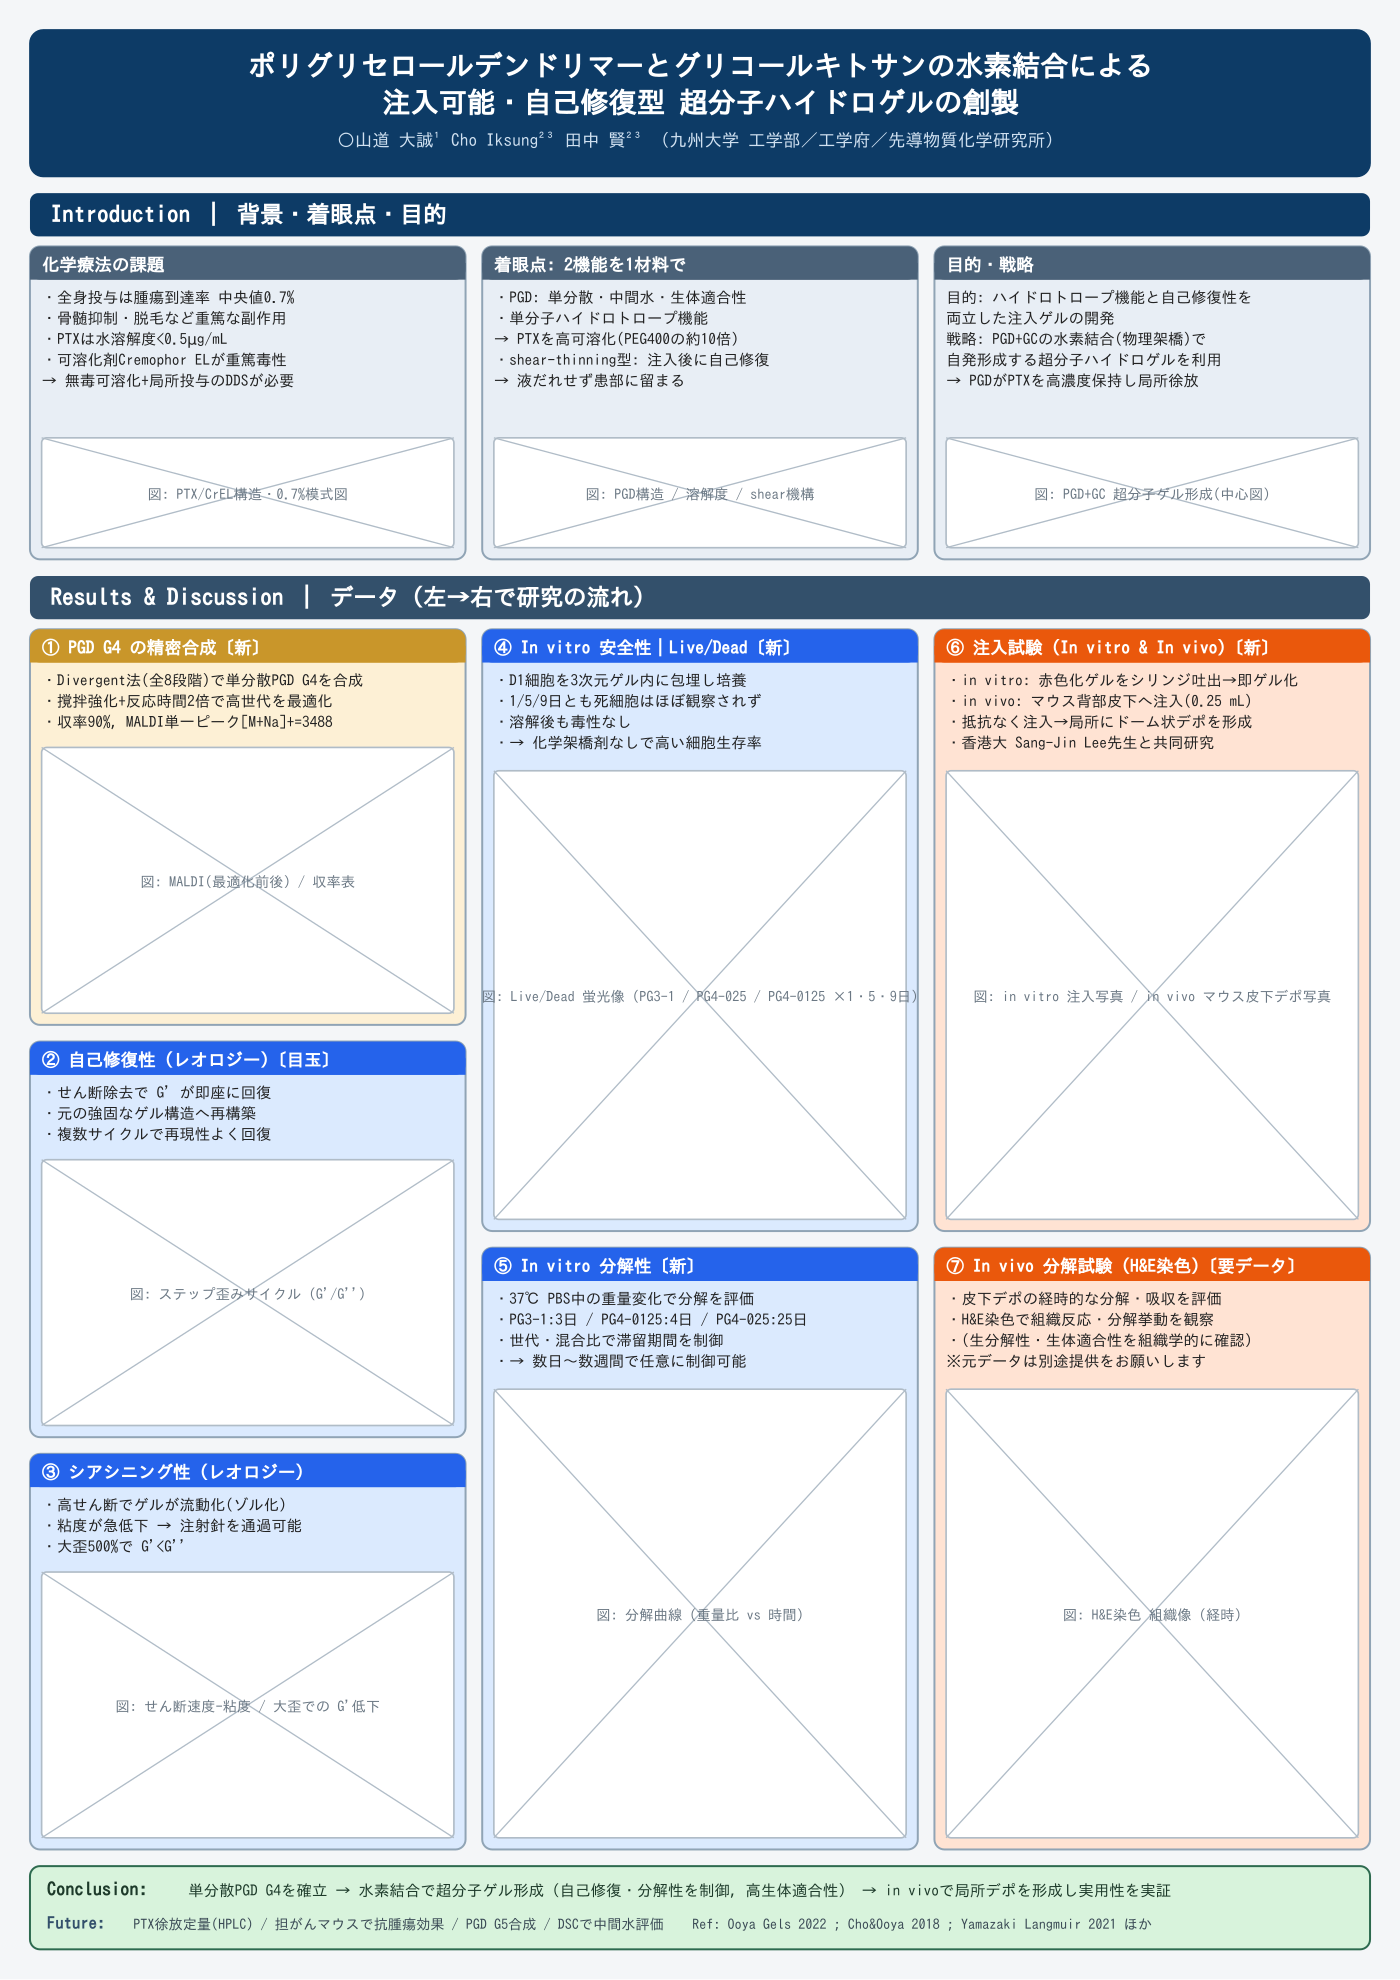
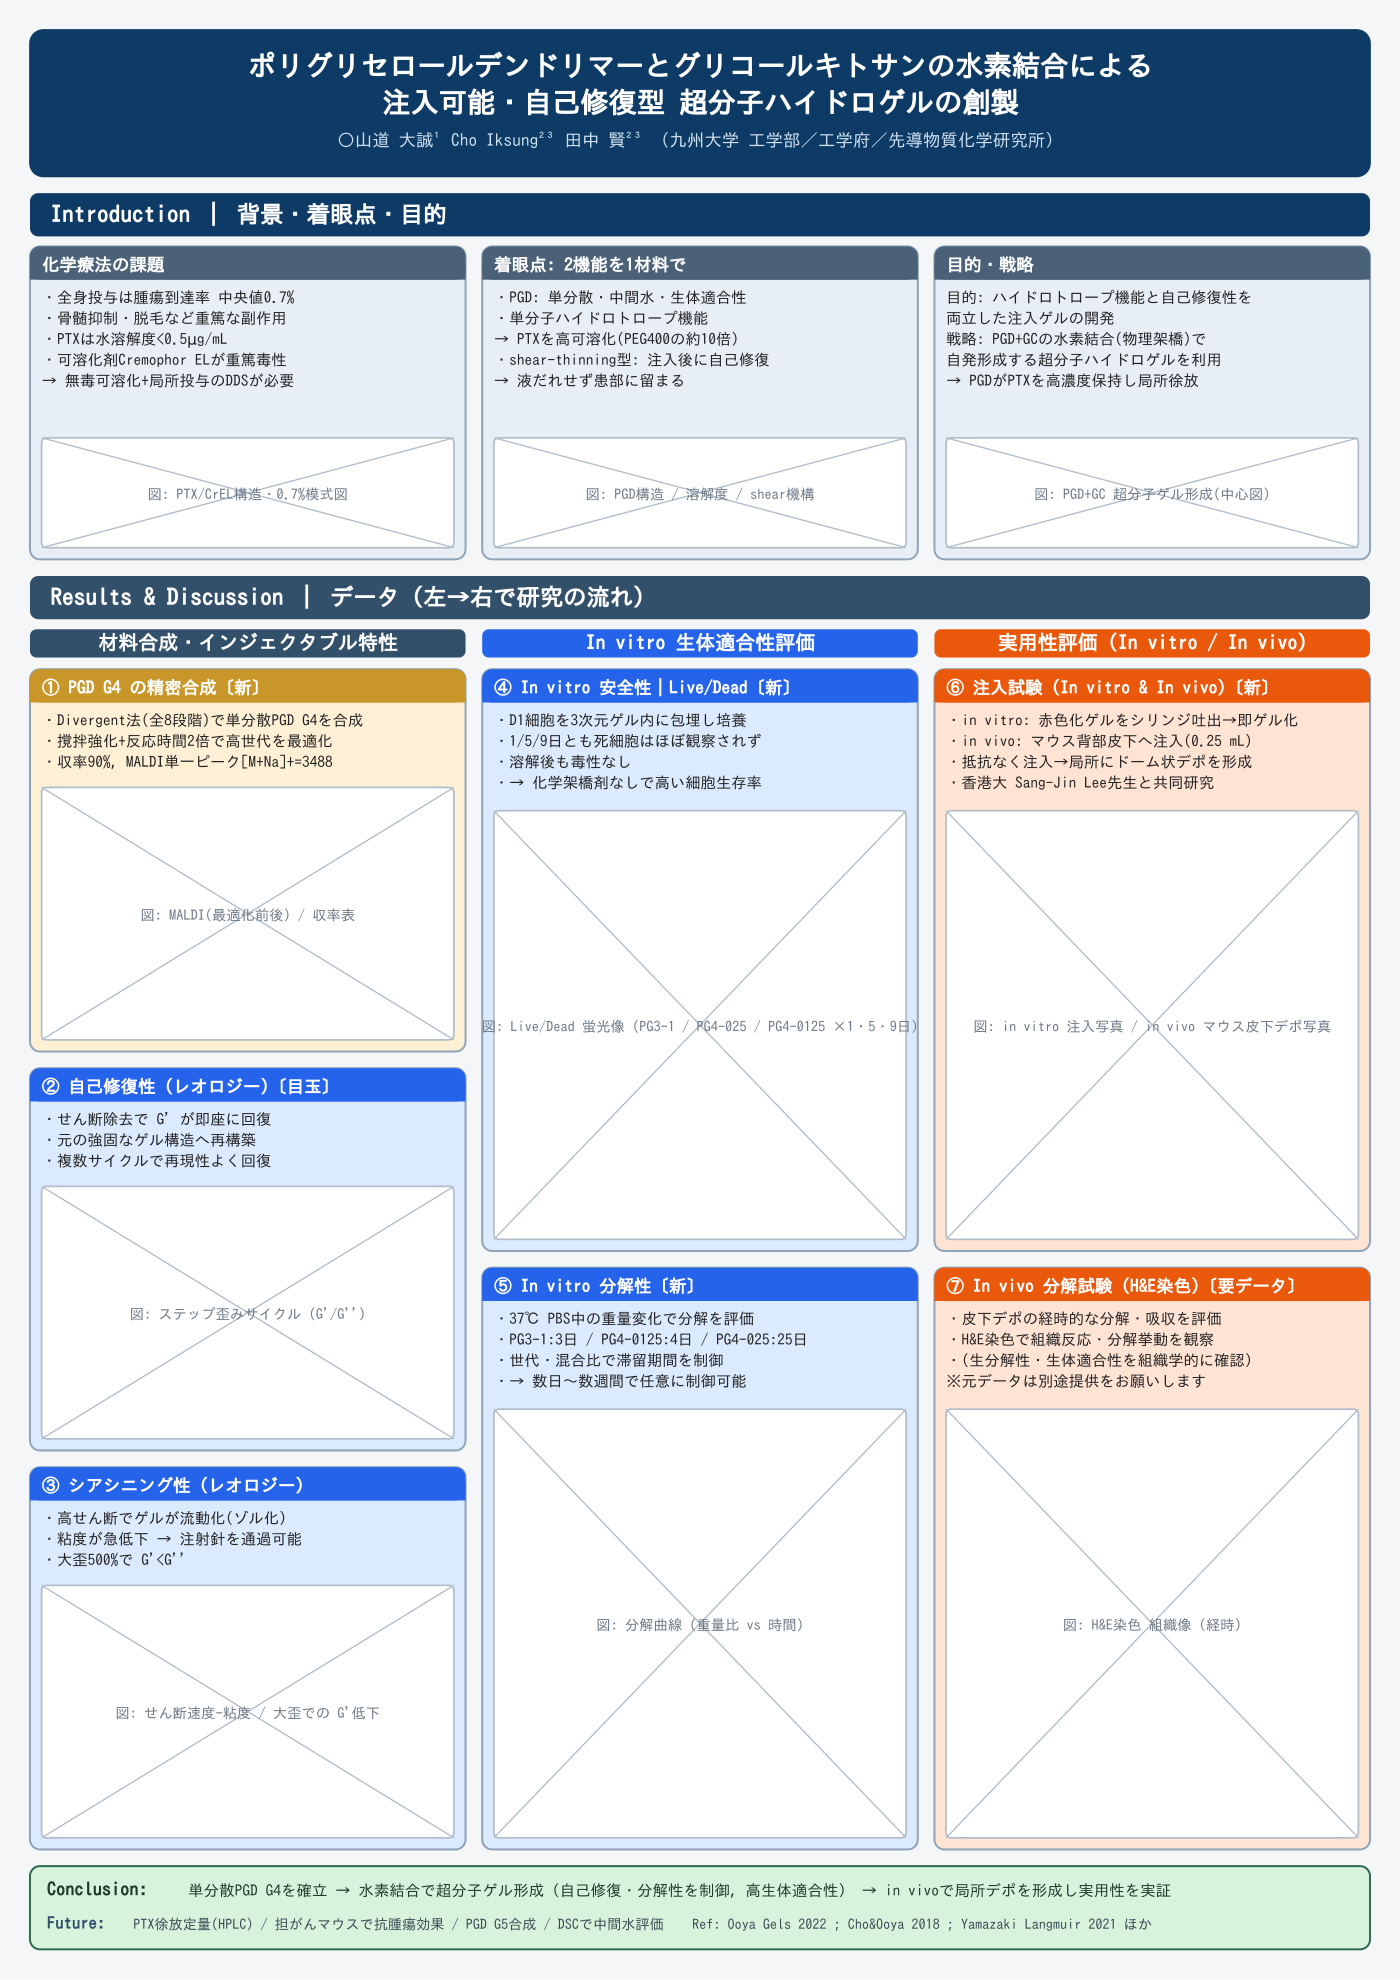
各列に見出しバーを追加
左:材料合成・インジェクタブル特性 / 中:In vitro生体適合性評価 / 右:実用性評価(In vitro/In vivo)。
色分けで列のテーマを明示。mockup・pptx更新。

https://claude.ai/code/session_01KuqqzALcpZUj35jC8BQaFN

diff --git a/poster/make_pptx.py b/poster/make_pptx.py
@@ -169,7 +169,18 @@ conc_y = 1189 - M - band_conc_h
 colw = (cw - 2*gap) / 3
 dx0 = M; dx1 = M + colw + gap; dx2 = M + 2*(colw+gap)
 
-data_y = ry + 14
+# --- 列ごとの見出しバー ---
+head_y = ry + 14
+head_h = 10
+def colhead(x, label, color):
+    box(x, head_y, colw, head_h, color, line=None, rounded=False)
+    textbox(x, head_y, colw, head_h, [(label, 15, C_WHITE, True)],
+            align=PP_ALIGN.CENTER, anchor=MSO_ANCHOR.MIDDLE)
+colhead(dx0, "材料合成・インジェクタブル特性", C_SEC)
+colhead(dx1, "In vitro 生体適合性評価", C_VITRO_BAR)
+colhead(dx2, "実用性評価 (In vitro / In vivo)", C_VIVO_BAR)
+
+data_y = head_y + head_h + 4
 data_h = conc_y - gap - data_y
 
 # 左列=3枚, 中列=2枚, 右列=2枚

diff --git a/poster/make_mockup.py b/poster/make_mockup.py
@@ -119,7 +119,17 @@ dx0 = cx
 dx1 = cx + colw + gap
 dx2 = cx + 2*(colw + gap)
 
-data_y = ry + 32
+# --- 列ごとの見出しバー ---
+head_y = ry + 32
+head_h = 17
+def colhead(x, label, color):
+    add(f'<rect x="{x}" y="{head_y}" width="{colw}" height="{head_h}" rx="4" fill="{color}"/>')
+    text(x+colw/2, head_y+12.5, label, size=12, color="#ffffff", weight="bold", anchor="middle")
+colhead(dx0, "材料合成・インジェクタブル特性", "#33506b")
+colhead(dx1, "In vitro 生体適合性評価", C_VITRO_BAR)
+colhead(dx2, "実用性評価 (In vitro / In vivo)", C_VIVO_BAR)
+
+data_y = head_y + head_h + 7
 data_bottom = conc_y - gap
 data_h = data_bottom - data_y
 
